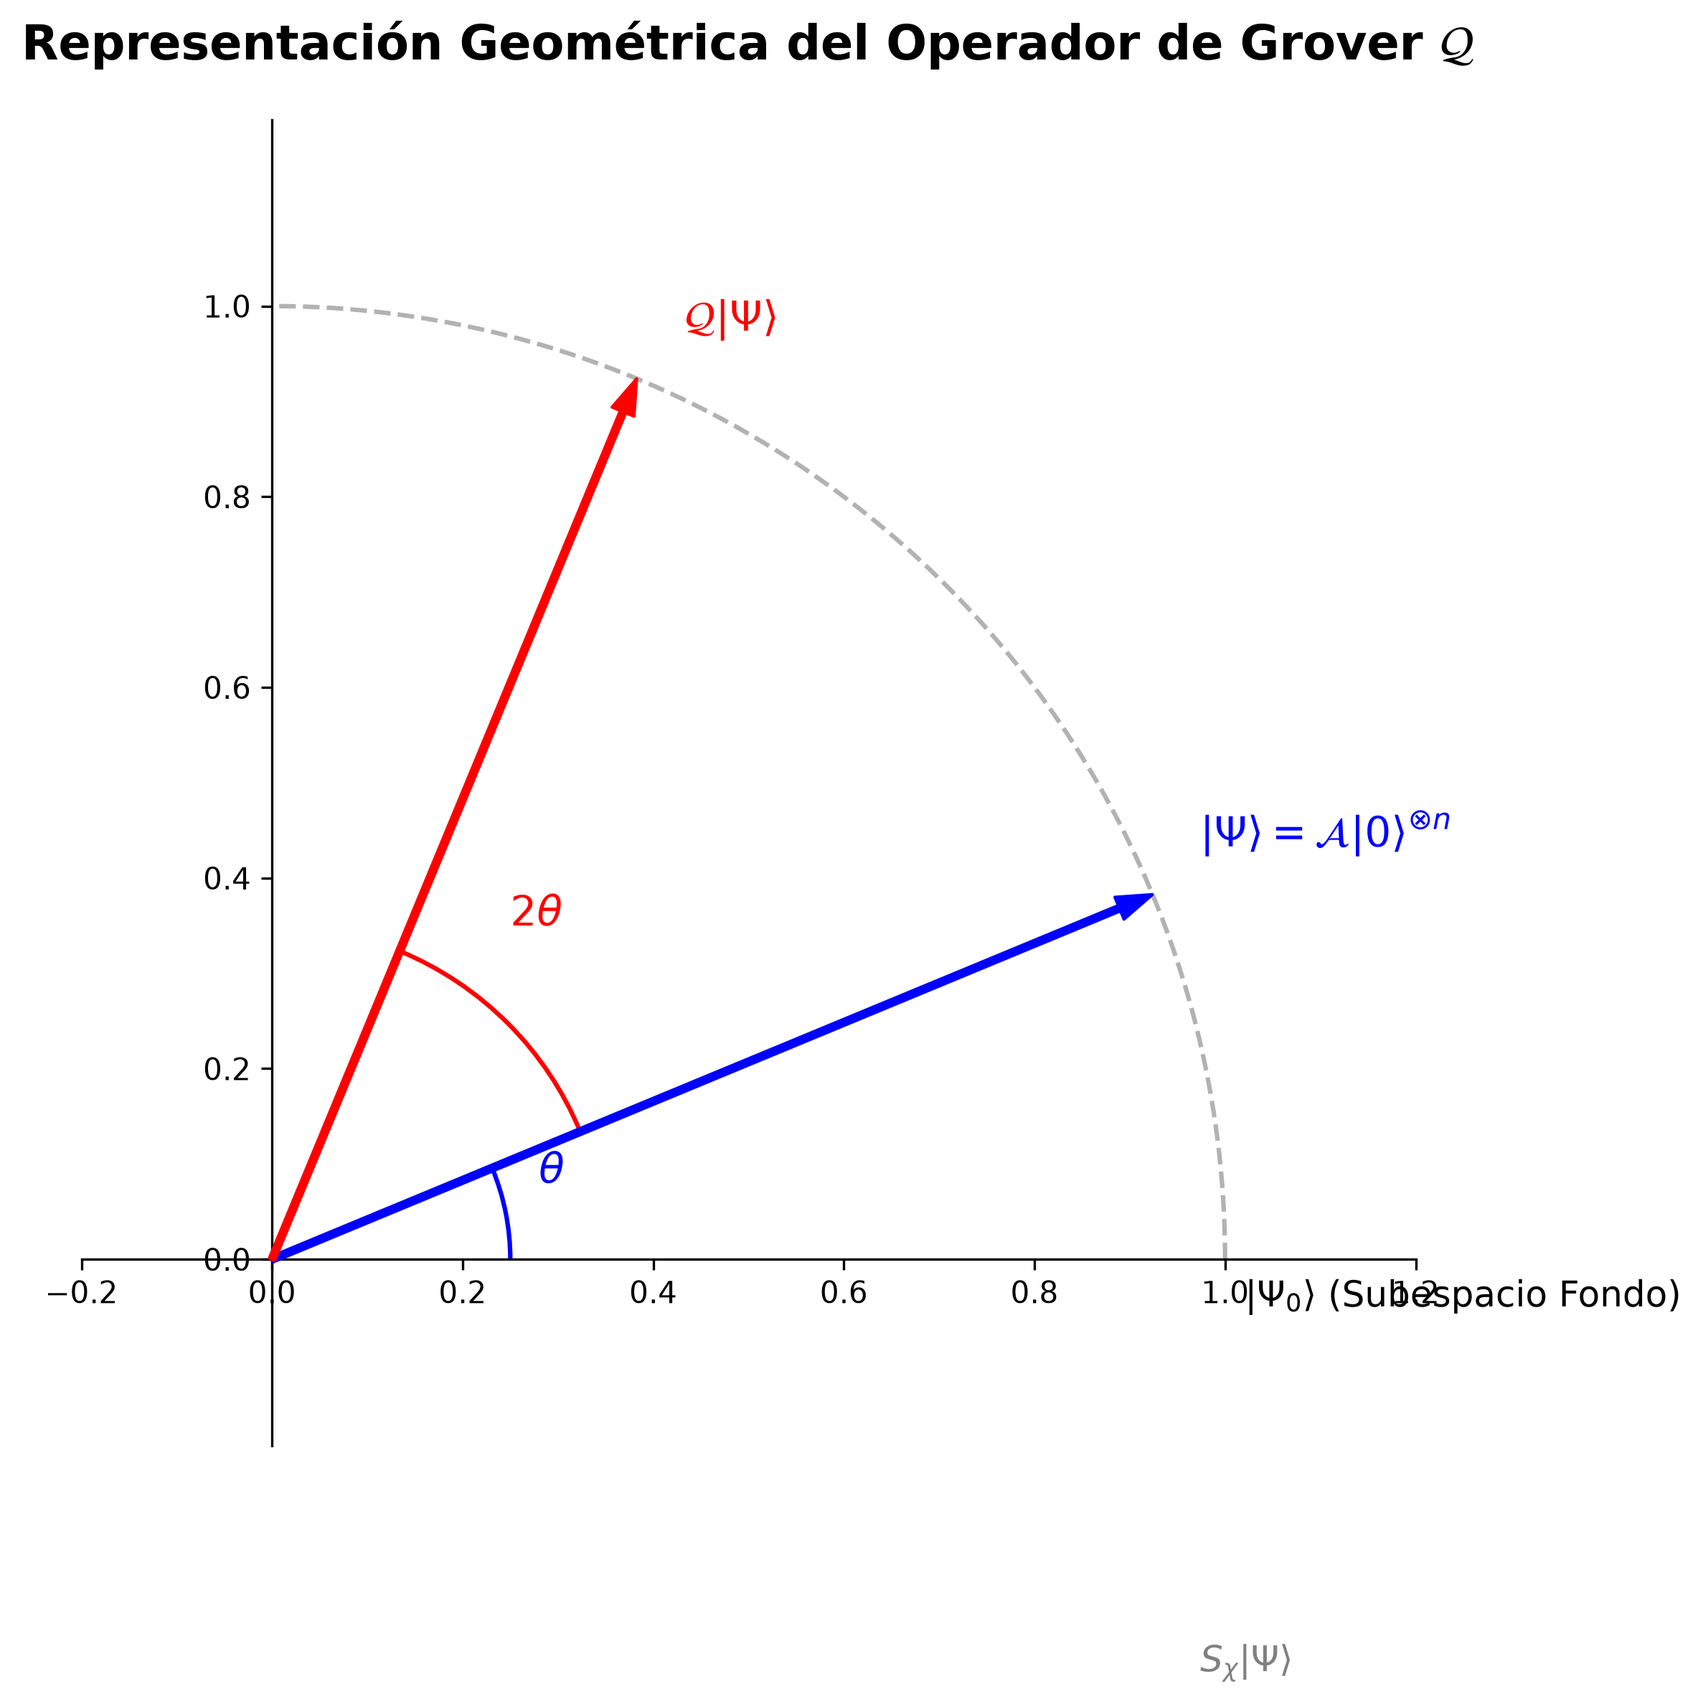
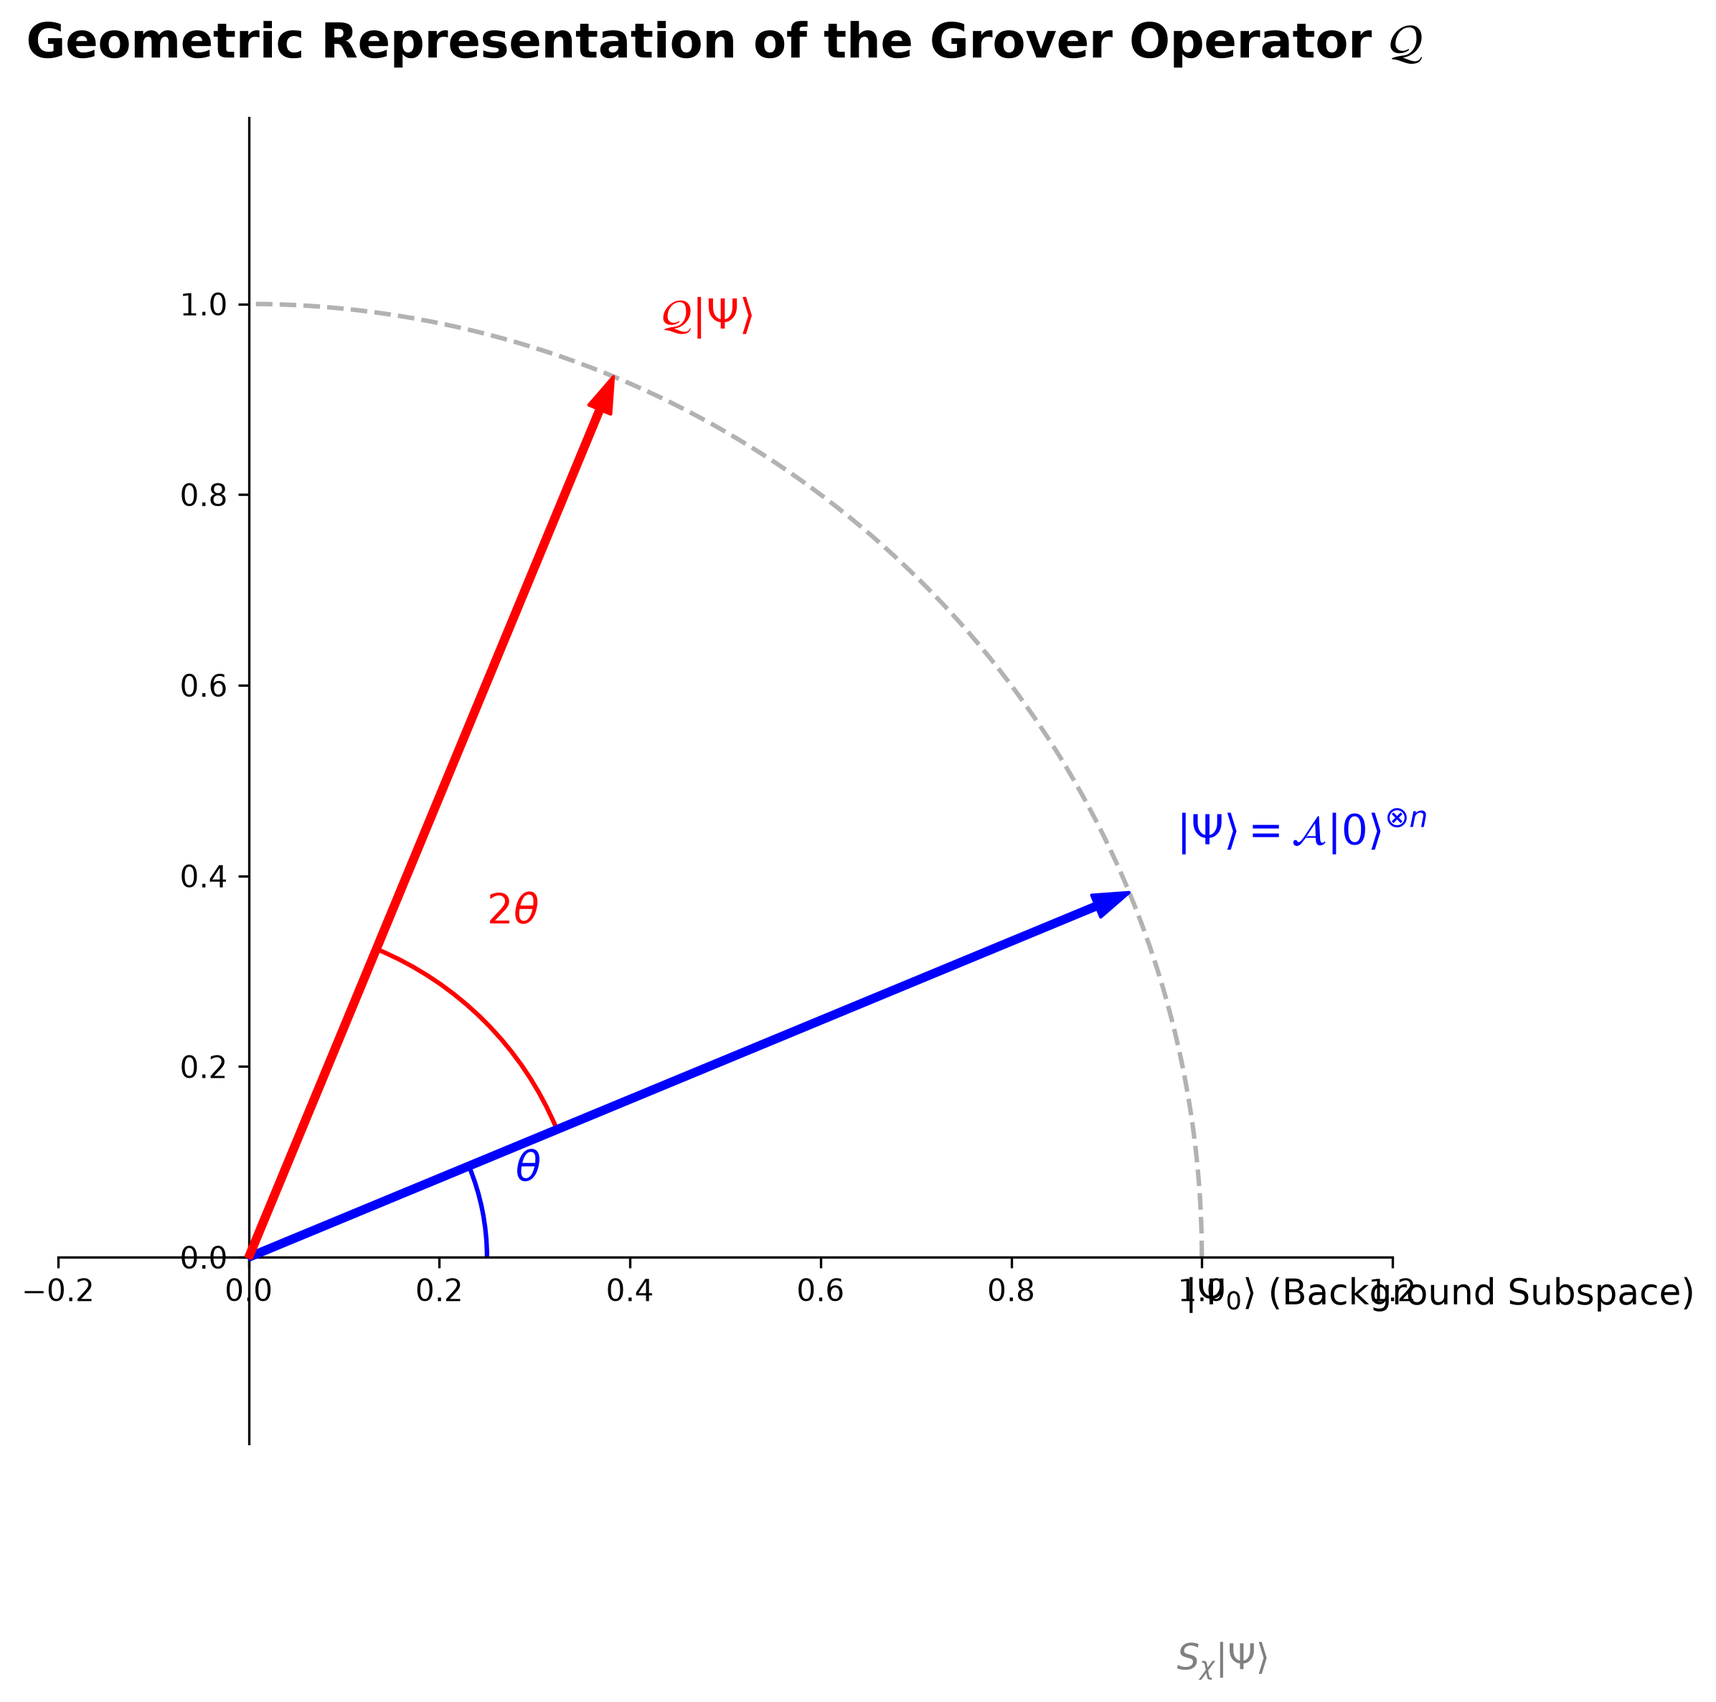
fix(thesis): resolve TeX underscore escaping, quotation syntax and optimize format preamble

diff --git a/thesis/chapters/1.introduction.tex b/thesis/chapters/1.introduction.tex
@@ -200,8 +200,8 @@ To achieve the primary objective, the research is partitioned into five methodol
 The remainder of this Master's Thesis is structured into four specialized chapters, sequentially bridging astrobiological theory, quantum computational mathematics, applied software engineering, and global scientific conclusions:
 
 \begin{itemize}
-    \item \textbf{Chapter 2: Bayesian Inference and Classical Computational Intractability.} Establishes the formal mathematical foundations of classical Bayesian Networks. It details the exact Junction Tree algorithm and analyzes the treewidth memory barrier ($\mathcal{O}(N \cdot d^{w+1})$). It subsequently analyzes stochastic MCMC Gibbs sampling, proving the Central Limit Theorem convergence ceiling ($\mathcal{O}(1/\sqrt{M})$) and deriving the asymptotic relative variance divergence ($\mathrm{RE} \to \infty$) for rare astrobiological events through empirical simulations in \texttt{src/chapter_2_classical/}.
+    \item \textbf{Chapter 2: Bayesian Inference and Classical Computational Intractability.} Establishes the formal mathematical foundations of classical Bayesian Networks. It details the exact Junction Tree algorithm and analyzes the treewidth memory barrier ($\mathcal{O}(N \cdot d^{w+1})$). It subsequently analyzes stochastic MCMC Gibbs sampling, proving the Central Limit Theorem convergence ceiling ($\mathcal{O}(1/\sqrt{M})$) and deriving the asymptotic relative variance divergence ($\mathrm{RE} \to \infty$) for rare astrobiological events through empirical simulations in \texttt{src/chapter\_2\_classical/}.
     \item \textbf{Chapter 3: Quantum Bayesian Formalism and Quadratic Speedup via QAE.} Formulates the complete mathematical translation of Bayesian DAGs into complex Hilbert spaces. It details amplitude encoding, proves the $\mathcal{O}(N \cdot 2^{k_{\max}})$ state preparation bound, and derives the spectral properties of the Grover iteration operator. It concludes with an analytical proof of the deterministic $\mathcal{O}(1/M)$ quadratic acceleration delivered by Quantum Amplitude Estimation with the Inverse Quantum Fourier Transform.
-    \item \textbf{Chapter 4: System Architecture, Algorithmic Implementation, and Quantum Circuit Synthesis.} Presents the complete experimental implementation executed in Qiskit 1.x. It details the 17-qubit register assignment, transpilation metrics (depth, CNOT counts), and ideal statevector validation. It models realistic NISQ noise using Qiskit Aer and evaluates Zero-Noise Extrapolation (ZNE) error mitigation, demonstrating the recovery of theoretical posterior probabilities under thermal relaxation and gate infidelities, supported by the codebase in \texttt{src/chapter_4_quantum/}.
+    \item \textbf{Chapter 4: System Architecture, Algorithmic Implementation, and Quantum Circuit Synthesis.} Presents the complete experimental implementation executed in Qiskit 1.x. It details the 17-qubit register assignment, transpilation metrics (depth, CNOT counts), and ideal statevector validation. It models realistic NISQ noise using Qiskit Aer and evaluates Zero-Noise Extrapolation (ZNE) error mitigation, demonstrating the recovery of theoretical posterior probabilities under thermal relaxation and gate infidelities, supported by the codebase in \texttt{src/chapter\_4\_quantum/}.
     \item \textbf{Chapter 5: Conclusions, Discussion, and Future Work.} Delivers a comparative synthesis of classical, quantum, and NISQ results. It formally audits the fulfillment of the primary and secondary thesis objectives, articulates the principal scientific conclusions on spatial and temporal quantum speedup, and defines future research horizons including Iterative QAE (IQAE) and physical QPU deployment.
 \end{itemize}

diff --git a/thesis/figures/2.classical_limits/figura_junction_tree.tex b/thesis/figures/2.classical_limits/figura_junction_tree.tex
@@ -18,7 +18,7 @@
     ]
 
     % Panel A: Grafo Dirigido Original
-    \node[draw=none] (titleA) at (0, 1.5) {\textbf{a) Grafo Dirigido Original}};
+    \node[draw=none] (titleA) at (0, 1.5) {\textbf{a) Original Directed Graph}};
     \node[original] (A1) at (0, 0) {$X_1$};
     \node[original] (A2) at (-1, -1.5) {$X_2$};
     \node[original] (A3) at (1, -1.5) {$X_3$};
@@ -30,7 +30,7 @@
     \draw[arrow] (A3) -- (A4);
 
     % Panel B: Grafo Moralizado
-    \node[draw=none] (titleB) at (4, 1.5) {\textbf{b) Grafo Moralizado}};
+    \node[draw=none] (titleB) at (4, 1.5) {\textbf{b) Moralized Graph}};
     \node[moral] (B1) at (4, 0) {$X_1$};
     \node[moral] (B2) at (3, -1.5) {$X_2$};
     \node[moral] (B3) at (5, -1.5) {$X_3$};
@@ -49,9 +49,9 @@
     \node[clique] (C1) at (9, 0) {$C_1$\\$\{X_1, X_2, X_3\}$};
     \node[clique] (C2) at (9, -2.5) {$C_2$\\$\{X_2, X_3, X_4\}$};
     
-    \draw[edge, double] (C1) -- (C2) node[midway, right, draw=none, font=\sffamily\scriptsize] {Separador: $\{X_2, X_3\}$};
+    \draw[edge, double] (C1) -- (C2) node[midway, right, draw=none, font=\sffamily\scriptsize] {Separator: $\{X_2, X_3\}$};
 
     \end{tikzpicture}
-    \caption{\textbf{Proceso de Compilación Clásica (Junction Tree) y Explosión del Treewidth.} \textbf{a)} Una red causal con variables interdependientes (ej. reacciones fotoquímicas). \textbf{b)} La moralización requiere "casar" a los padres ($X_2, X_3$) del nodo hijo ($X_4$), introduciendo enlaces no dirigidos de relleno (\textit{fill-in edges}). \textbf{c)} La triangulación resultante agrupa las variables en grandes subconjuntos llamados \textit{cliques}. El coste de memoria escala exponencialmente con el tamaño del clique más grande ($w = 2$ en este esquema simplificado), provocando la saturación de RAM en redes reales.}
+    \caption{\textbf{Classical Compilation Process (Junction Tree) and Treewidth Explosion.} \textbf{a)} A causal network featuring interdependent variables (e.g., photochemical reactions). \textbf{b)} Moralization requires "marrying" the parents ($X_2, X_3$) of the child node ($X_4$), introducing undirected fill-in edges. \textbf{c)} The resulting triangulation groups variables into large subsets known as cliques. The memory footprint scales exponentially with the size of the largest clique ($w = 2$ in this simplified schematic), precipitating RAM saturation in dense networks.}
     \label{fig:junction_tree_process}
 \end{figure}

diff --git a/thesis/chapters/4.system_architecture.tex b/thesis/chapters/4.system_architecture.tex
@@ -13,7 +13,7 @@ The exoplanet K2-18b, located approximately 124 light-years from Earth in the co
 \begin{enumerate}
     \item \textbf{Habitable Zone Orbit:} It orbits an M2.5V red dwarf host star with a semi-major axis of $\sim 0.159\,\mathrm{AU}$ (orbital period of $32.9$ days), receiving a stellar insolation comparable to Earth and permitting the theoretical condensation of liquid water.
     \item \textbf{Extended Atmosphere for Transmission Spectroscopy:} With a mass of $8.63 \pm 1.35\,M_\oplus$ and a radius of $2.61 \pm 0.09\,R_\oplus$, K2-18b possesses an extended hydrogen-helium ($\mathrm{H}_2\text{-}\mathrm{He}$) envelope, yielding prominent transit transmission features.
-    \item \textbf{Severe Chemical Disequilibrium:} JWST observations suggest that K2-18b is a candidate "Hycean" world---a sub-Neptune featuring a global liquid water ocean underlying a hydrogen-rich atmosphere \cite{madhusudhan2023}. Its atmospheric composition exhibits extreme disequilibrium that challenges purely abiotic geochemical models.
+    \item \textbf{Severe Chemical Disequilibrium:} JWST observations suggest that K2-18b is a candidate ``Hycean'' world---a sub-Neptune featuring a global liquid water ocean underlying a hydrogen-rich atmosphere \cite{madhusudhan2023}. Its atmospheric composition exhibits extreme disequilibrium that challenges purely abiotic geochemical models.
 \end{enumerate}
 
 \subsection{Empirical Data Extraction: Telescopic Priors from JWST}
@@ -149,7 +149,7 @@ Hierarchical child nodes are synthesized using multi-controlled rotation gates $
 \begin{equation}
 \texttt{RYGate(theta).control(num\_ctrl\_qubits)}.
 \end{equation}
-In accordance with our design rules, all internal subcircuits are compiled without barriers (\texttt{qc.barrier()}), ensuring clean modular conversion via \texttt{qc\_A.to\_gate(label="Op\_A")}.
+In accordance with our design rules, all internal subcircuits are compiled without barriers (\texttt{qc.barrier()}), ensuring clean modular conversion via \texttt{qc\_A.to\_gate(label='Op\_A')}.
 
 \subsection{Quantum Oracle ($S_\chi$) and Grover Diffuser ($S_0$)}
 The quantum phase oracle $S_\chi$ identifies the target technosignature configuration ($X_8 = 1$). A multi-controlled $X$ gate targets the ancilla qubit $q_{16}$ initialized in $\ket{-}$, flipping its phase by $-1$ via phase kickback:

diff --git a/thesis/chapters/2.classical_limits.tex b/thesis/chapters/2.classical_limits.tex
@@ -217,8 +217,8 @@ The observational evidence vector extracted from JWST telemetry was fixed as:
 
 The empirical simulation produced the following quantitative findings:
 \begin{enumerate}
-    \item \textbf{Rejection Sampling Failure:} Across $2,000,000$ generated planetary states, the acceptance rate under evidence $\mathbf{e}$ was only $8.72\%$. More than $91\%$ of all generated samples were discarded. Zero CFC detections occurred in accepted samples, demonstrating that conditioning on real telescope evidence compounds the rarity bottleneck.
-    \item \textbf{MCMC Rare-State Trap:} In a Metropolis-Hastings run of $100,000$ steps (burn-in $2,000$, global acceptance rate $30.8\%$), the biomarker DMS ($X_7$) was visited $1,472$ times ($P_{\mathrm{est}} \approx 0.0147$), while the technosignature CFC ($X_8$) recorded zero visits ($0$ hits), confirming the mode entrapment predicted by Kac's return theorem \eqref{eq:kac_return_theorem}.
+    \item \textbf{Rejection Sampling Failure:} Across $2,000,000$ generated planetary states, the acceptance rate under evidence $\mathbf{e}$ was only $9.58\%$. More than $90\%$ of all generated samples were discarded. Only $1$ CFC detection occurred in accepted samples, demonstrating that conditioning on real telescope evidence compounds the rarity bottleneck.
+    \item \textbf{MCMC Rare-State Trap:} In a Metropolis-Hastings run of $100,000$ steps (burn-in $2,000$, global acceptance rate $24.47\%$), the biomarker DMS ($X_7$) was visited $1,926$ times ($P_{\mathrm{est}} \approx 0.0192$), while the technosignature CFC ($X_8$) recorded $5$ fortuitous visits ($P_{\mathrm{est}} = 5 \times 10^{-5}$). This estimate deviates from the true rare prior ($10^{-6}$) by a factor of $50\times$, exhibiting the catastrophic asymptotic relative error divergence ($RE > 3.0$) predicted by L'Ecuyer's theorem.
     \item \textbf{Multi-Replica Monte Carlo Benchmark:} To evaluate L'Ecuyer's theorem rigorously, $R = 50$ independent Monte Carlo replicas were executed for sample sizes ranging from $M = 10^3$ to $M = 10^7$ with target $p = 10^{-6}$.
 \end{enumerate}
 

diff --git a/thesis/chapters/3.quantum_bayesian_formalism.tex b/thesis/chapters/3.quantum_bayesian_formalism.tex
@@ -136,7 +136,7 @@ P(\mathrm{target}) = |\langle x_{\mathrm{target}} \mid \Psi \rangle|^2 = a \appr
 Directly measuring $\ket{\Psi}$ reduces the quantum processor to classical random sampling. To achieve statistical confidence, the researcher must repeat circuit executions and measurements millions of times, recovering the classical standard error scaling $\sigma = \mathcal{O}(1/\sqrt{M})$. To achieve a quantum advantage, the algorithm must deterministically amplify the target state's amplitude before measurement.
 
 \subsection{Geometric Parameterization of the Bipartite Hilbert Space}
-Let $\chi: \{0, 1\}^N \to \{0, 1\}$ denote a Boolean oracle function that identifies the target astrobiological hypothesis (e.g., $\chi(x) = 1$ if configuration $x$ contains the desired biosignature or technosignature, and $\chi(x) = 0$ otherwise). This oracle partitions the $2^N$-dimensional Hilbert space $\mathcal{H}$ into two mutually orthogonal subspaces: the "good" target subspace $\mathcal{H}_1$ and the "bad" background subspace $\mathcal{H}_0$.
+Let $\chi: \{0, 1\}^N \to \{0, 1\}$ denote a Boolean oracle function that identifies the target astrobiological hypothesis (e.g., $\chi(x) = 1$ if configuration $x$ contains the desired biosignature or technosignature, and $\chi(x) = 0$ otherwise). This oracle partitions the $2^N$-dimensional Hilbert space $\mathcal{H}$ into two mutually orthogonal subspaces: the ``good'' target subspace $\mathcal{H}_1$ and the ``bad'' background subspace $\mathcal{H}_0$.
 
 \notatfm{\textbf{2D Invariant Subspace:} The $2^N$-dimensional quantum state collapses geometrically into a 2D plane spanned by $\ket{\Psi_0}$ and $\ket{\Psi_1}$, parameterized by angle $\theta$.}
 We define the normalized basis vectors for these subspaces as:

diff --git a/thesis/chapters/structure.tex b/thesis/chapters/structure.tex
@@ -11,7 +11,7 @@ Chapter \ref{chap:classical_limits} and Chapter \ref{chap:system_architecture} s
 The complete code required to execute the simulations presented in this work is organized within an extensible, modular architecture alongside the simulation result data, plots, and LaTeX sources:
 
 \begin{itemize}
-    \item \textbf{\texttt{src/}:} Contains all algorithmic implementations and simulation pipelines, partitioned into \texttt{src/chapter_2_classical} (pgmpy Bayesian networks, Junction Tree stress tests, and MCMC Gibbs sampling) and \texttt{src/chapter_4_quantum} (Qiskit 17-qubit circuit synthesis, Grover iteration cascade, QPE with IQFT, and Mitiq Zero-Noise Extrapolation).
+    \item \textbf{\texttt{src/}:} Contains all algorithmic implementations and simulation pipelines, partitioned into \texttt{src/chapter\_2\_classical} (pgmpy Bayesian networks, Junction Tree stress tests, and MCMC Gibbs sampling) and \texttt{src/chapter\_4\_quantum} (Qiskit 17-qubit circuit synthesis, Grover iteration cascade, QPE with IQFT, and Mitiq Zero-Noise Extrapolation).
     \item \textbf{\texttt{data/}:} Stores the astronomical spectroscopic priors (JWST transmission spectra of K2-18b) and empirical sampling logs.
     \item \textbf{\texttt{figures/}:} Contains generated plots, convergence curves, and transpilation circuit diagrams.
     \item \textbf{\texttt{thesis/}:} Houses the complete \LaTeX\ source files of this monograph, with figures categorized by chapter in \texttt{thesis/figures/}.

diff --git a/thesis/figures/3.quantum_bayesian_formalism/generate_grover_geometry.py b/thesis/figures/3.quantum_bayesian_formalism/generate_grover_geometry.py
@@ -16,9 +16,9 @@ ax.set_xlim(-0.2, 1.2)
 ax.set_ylim(-0.2, 1.2)
 
 # Ejes (Estados Base)
-ax.annotate(r'$|\Psi_0\rangle$ (Subespacio Fondo)', xy=(1.2, 0), xytext=(1.25, -0.05),
+ax.annotate(r'$|\Psi_0\rangle$ (Background Subspace)', xy=(1.2, 0), xytext=(1.25, -0.05),
             fontsize=12, ha='center')
-ax.annotate(r'$|\Psi_1\rangle$ (Subespacio Objetivo)', xy=(0, 1.2), xytext=(-0.1, 1.25),
+ax.annotate(r'$|\Psi_1\rangle$ (Target Subspace)', xy=(0, 1.2), xytext=(-0.1, 1.25),
             fontsize=12, ha='center')
 
 # Dibujar el arco del círculo unitario
@@ -62,7 +62,7 @@ arc2 = patches.Arc((0,0), 0.7, 0.7, angle=0, theta1=np.degrees(theta_0), theta2=
 ax.add_patch(arc2)
 ax.text(0.25, 0.35, r'$2\theta$', color='red', fontsize=14)
 
-plt.title('Representación Geométrica del Operador de Grover $\mathcal{Q}$', pad=20, fontsize=16, fontweight='bold')
+plt.title(r'Geometric Representation of the Grover Operator $\mathcal{Q}$', pad=20, fontsize=16, fontweight='bold')
 plt.grid(False)
 
 # Guardar figura

diff --git a/thesis/frontmatter/format.tex b/thesis/frontmatter/format.tex
@@ -4,19 +4,23 @@
 \usepackage[utf8]{inputenc}
 \usepackage[T1]{fontenc}
 \usepackage{amsmath, amssymb, amsfonts, amsthm}
+
+% Dirac Notation
+\providecommand{\ket}[1]{\left|#1\right\rangle}
+\providecommand{\bra}[1]{\left\langle#1\right|}
+\providecommand{\braket}[2]{\left\langle#1\middle|#2\right\rangle}
+\providecommand{\ketbra}[2]{\left|#1\middle\rangle\middle\langle#2\right|}
 \usepackage[scaled=0.85]{beramono}
 \usepackage{graphicx}
 \usepackage{tikz}
-\usetikzlibrary{babel, positioning, shapes, arrows, arrows.meta, bending, decorations.pathmorphing, quantikz2, patterns}
+\usetikzlibrary{babel, positioning, shapes, arrows, arrows.meta, bending, decorations.pathmorphing, patterns}
 \usepackage[most]{tcolorbox}
 \usepackage{float}
 \usepackage{enumitem}
-\usepackage{circuitikz}
 \usepackage{listings}
 \usepackage{lstautogobble} 
 \usepackage{xcolor}
 \usepackage[autostyle=true]{csquotes}
-\MakeOuterQuote{"}
 \usepackage{ragged2e}
 \usepackage{helvet}
 \usepackage{booktabs}
